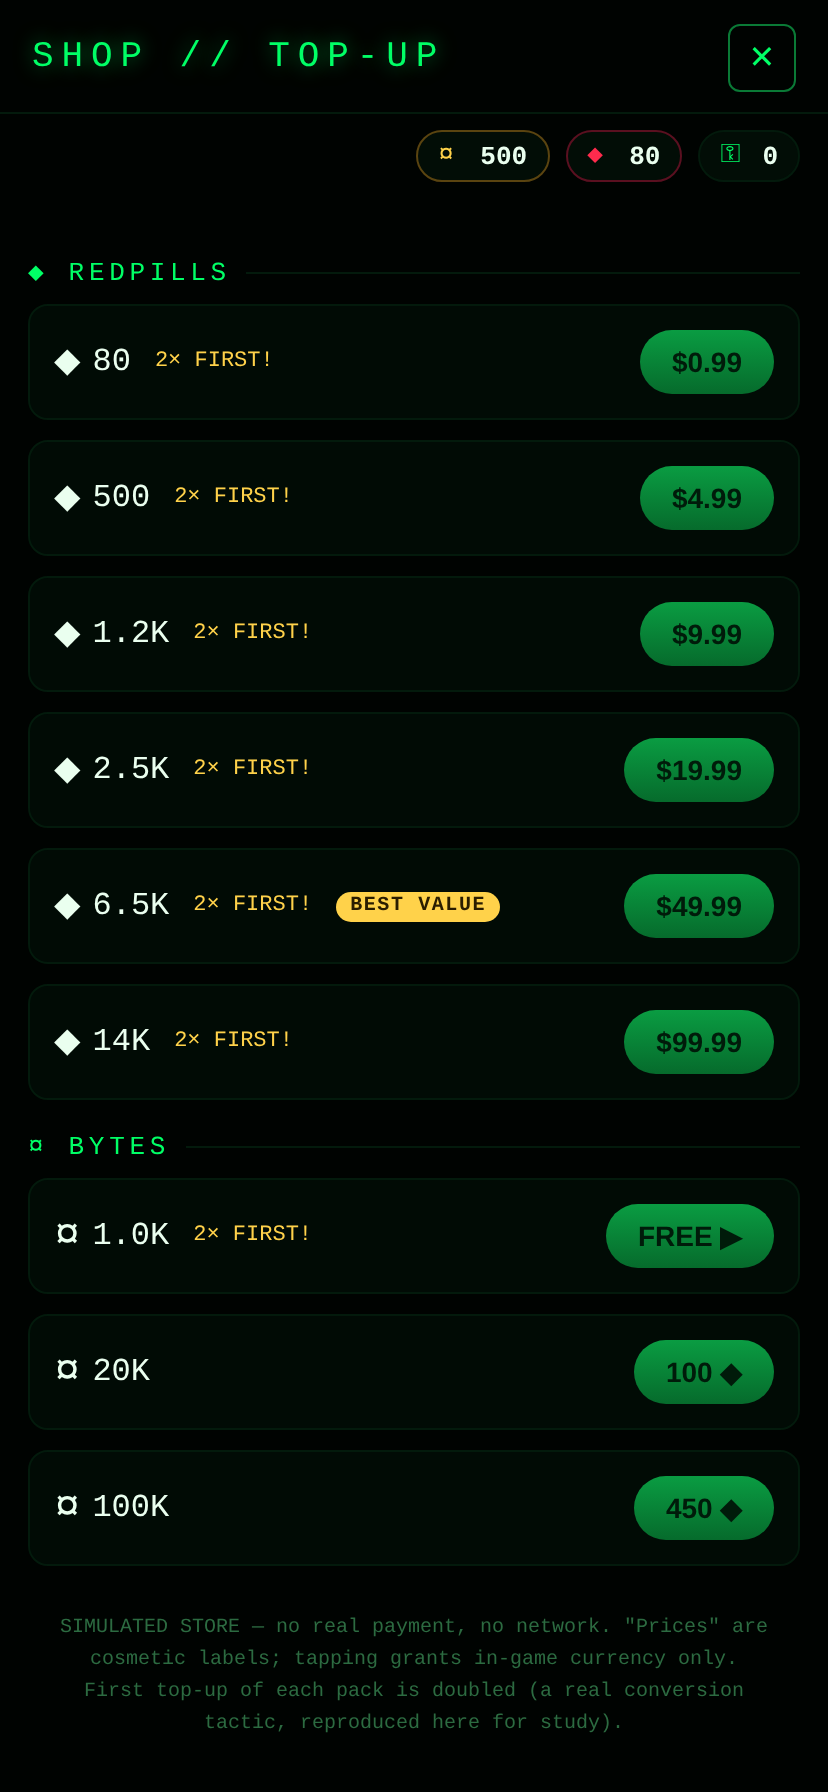
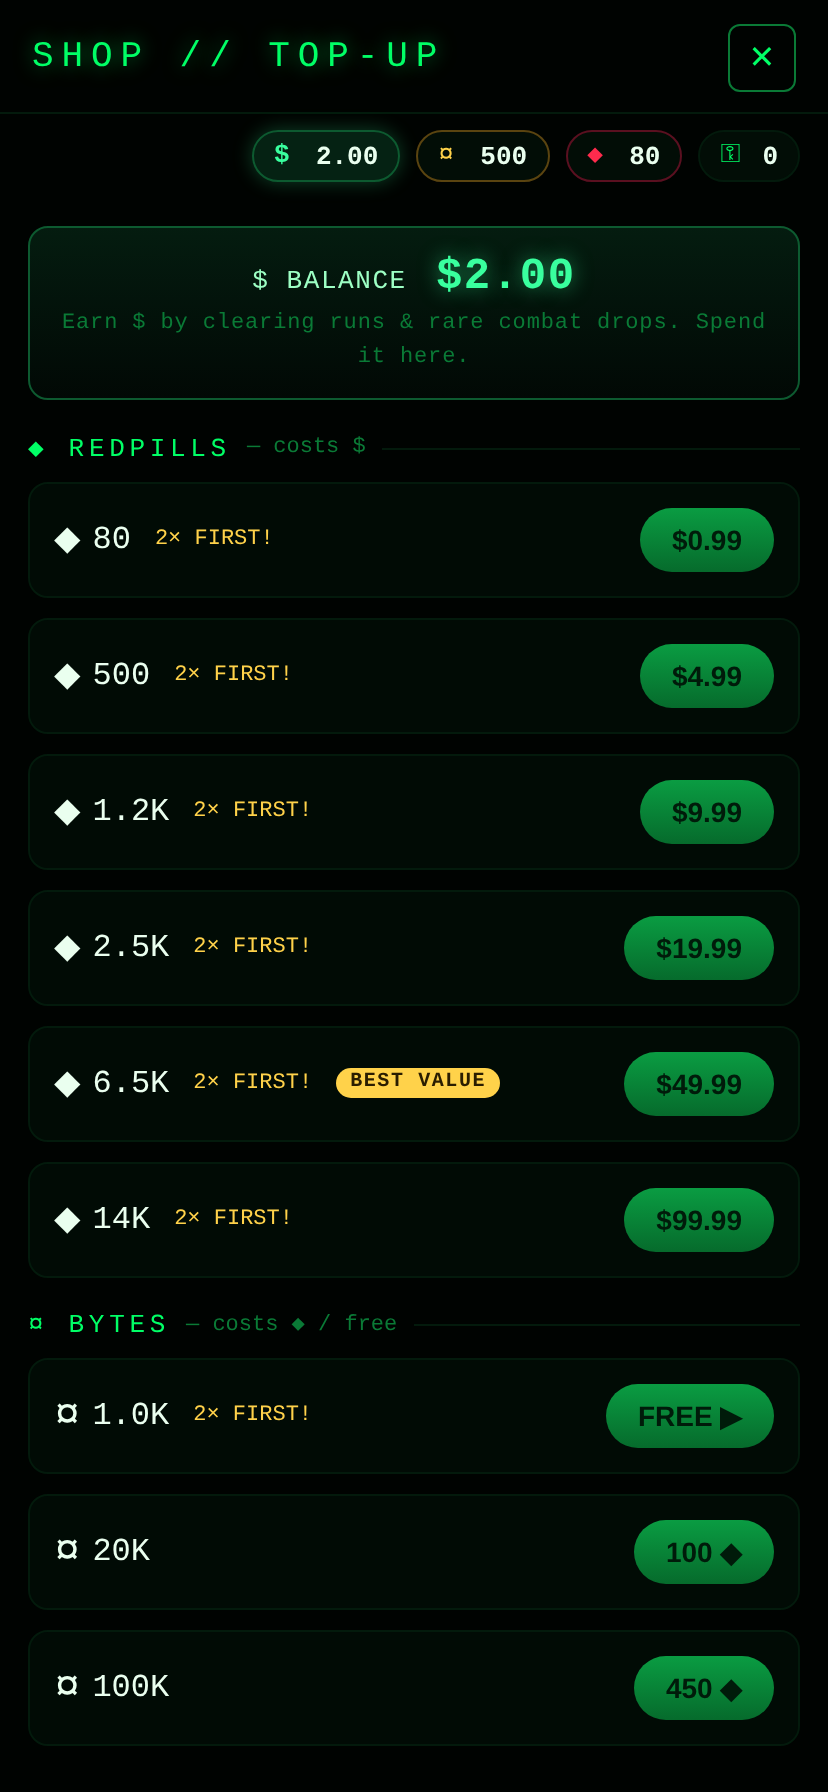
Add spendable $ credits: start $2, earn from runs & combat, spend in shop
- New 'dollars' currency: every profile starts with $2 (also back-filled for
  existing saves via default merge). Tracked + lifetime 'dollarsEarned'.
- Earn $: run completion bonus in awardRun (base + time + boss), and a rare
  glowing $ bill pickup that drops mid-fight (bosses always drop one); pickups
  credit the balance immediately and persist.
- Spend $: shop Redpill packs now deduct the real $ balance (parsePrice), still
  apply first-buy x2, and actually grant the Redpills/Bytes on success; clear
  "need $X more" feedback when short. Bytes packs keep Redpill/ad pricing.
- UI: $ chip in the currency bar, live $ balance banner in the shop, $ shown in
  end-of-run rewards.
- Offline: all of it is the existing localStorage profile; verified a buy +
  full page reload keeps the deducted balance and granted goods.

Tests: logic 45/45 (incl. $ earn/spend/insufficient + persistence-across-reload),
smoke 20/20, browser e2e confirms $2 -> buy $0.99 -> $1.01 & +160 redpills,
survives reload. 0 runtime errors.

Claude-Session: https://claude.ai/code/session_017cpWMkzYq2x9bHhLVMrpjT

diff --git a/js/monetization.js b/js/monetization.js
@@ -206,20 +206,46 @@
     return out;
   }
 
-  /* ---------------- currency bundles (simulated buy) ---------------- */
+  /* ---------------- dollar credits ($, spendable, local) ---------------- */
+  function parsePrice(p) {
+    if (typeof p === "number") return p;
+    if (typeof p === "string" && p[0] === "$") return parseFloat(p.slice(1)) || 0;
+    return null; // "FREE" or non-dollar price
+  }
+  function addDollars(amt) {
+    const s = S();
+    s.dollars = +(((s.dollars || 0) + amt).toFixed(2));
+    s.dollarsEarned = +(((s.dollarsEarned || 0) + amt).toFixed(2));
+    M.save.save();
+    return s.dollars;
+  }
+
+  /* ---------------- currency bundles (spend $ credits) ---------------- */
   function buyBundle(type, id) {
     const b = data.BUNDLES[type].find((x) => x.id === id);
     if (!b) return { error: "no" };
-    if (b.cur) { // paid with another currency
-      if (!M.save.spend(b.cur, b.price)) return { error: "poor" };
-    }
-    let amt = b.amt;
-    // first-purchase doubling (foot-in-the-door)
     const s = S();
-    if (!b.cur && !s.firstTopup[id]) { amt *= 2; s.firstTopup[id] = true; }
-    M.save.add(type, amt);
+    let amt = b.amt, spent = 0;
+    if (b.cur) {
+      // paid with another in-game currency (e.g. Bytes bought with Redpills)
+      if (!M.save.spend(b.cur, b.price)) return { error: "poor" };
+    } else if (b.ad) {
+      // "watch ad" freebie — no cost
+    } else {
+      // dollar-priced pack: deduct the player's $ balance
+      const price = parsePrice(b.price);
+      if (price != null && price > 0) {
+        if ((s.dollars || 0) + 1e-9 < price)
+          return { error: "dollars", need: +(price - (s.dollars || 0)).toFixed(2), price };
+        s.dollars = +((s.dollars - price).toFixed(2));
+        spent = price;
+      }
+      // first-purchase doubling (foot-in-the-door)
+      if (!s.firstTopup[id]) { amt *= 2; s.firstTopup[id] = true; }
+    }
+    M.save.add(type, amt); // grants the goods + persists
     M.save.save();
-    return { ok: true, amt };
+    return { ok: true, amt, spent };
   }
 
   /* ---------------- end-of-run rewards ---------------- */
@@ -228,14 +254,17 @@
     const bonus = metaBonus();
     const bytes = Math.floor((40 + stats.kills * 1.4 + stats.time * 3 + stats.level * 25) * bonus.greed);
     const rp = Math.floor(stats.time / 60) * 5 + (stats.boss ? 30 : 0);
+    // $ credits for completing the run: base + time + boss bonus
+    const dollars = +((0.25 + Math.floor(stats.time / 60) * 0.15 + (stats.boss ? 0.75 : 0)).toFixed(2));
     M.save.add("bytes", bytes);
     if (rp > 0) M.save.add("redpills", rp);
+    if (dollars > 0) addDollars(dollars);
     s.totalKills += stats.kills;
     s.runs += 1;
     if (stats.time > s.bestTime) s.bestTime = stats.time;
     addBpXp(Math.floor(stats.time / 6) + stats.level * 4 + (stats.boss ? 40 : 0));
     M.save.save();
-    return { bytes, rp };
+    return { bytes, rp, dollars };
   }
 
   function badgeCount() {
@@ -255,6 +284,6 @@
     offerState, buyOffer,
     bpTier, bpProgress, addBpXp, bpClaim, bpBuyPremium,
     metaLevel, metaBuy, metaBonus,
-    buyBundle, awardRun, grant, badgeCount,
+    buyBundle, parsePrice, addDollars, awardRun, grant, badgeCount,
   };
 })();

diff --git a/tests/logic.test.js b/tests/logic.test.js
@@ -144,12 +144,41 @@ ok("run awards bytes", rw.bytes > 0);
 ok("boss run awards redpills", rw.rp > 0);
 ok("stats recorded", M.save.data.runs === 1 && M.save.data.bestTime === 600);
 
-console.log("\n== BUNDLES (first-buy 2x) ==");
+console.log("\n== DOLLARS + SHOP ==");
 M.save.reset();
-const b1 = M.mon.buyBundle("redpills", "rp1");
+ok("user starts with $2", M.save.data.dollars === 2);
+const rpBefore = M.save.data.redpills;
+const b1 = M.mon.buyBundle("redpills", "rp1"); // $0.99 -> 80 (x2 first)
+ok("buy deducts $ + delivers goods", b1.ok && M.save.data.dollars === +(2 - 0.99).toFixed(2) && M.save.data.redpills === rpBefore + D.BUNDLES.redpills[0].amt * 2, JSON.stringify(b1) + " $" + M.save.data.dollars);
 ok("first buy doubled", b1.amt === D.BUNDLES.redpills[0].amt * 2);
 const b2 = M.mon.buyBundle("redpills", "rp1");
 ok("second buy not doubled", b2.amt === D.BUNDLES.redpills[0].amt);
+const b3 = M.mon.buyBundle("redpills", "rp1");
+ok("blocked when $ insufficient", b3.error === "dollars", JSON.stringify(b3));
+M.save.reset();
+const adb = M.mon.buyBundle("bytes", "by0"); // FREE ad pack
+ok("ad pack free, grants bytes, no $ spent", adb.ok && M.save.data.dollars === 2);
+M.save.reset(); M.save.add("redpills", 1000);
+const byb = M.mon.buyBundle("bytes", "by1"); // costs redpills
+ok("bytes pack spends redpills", byb.ok && M.save.data.redpills === 80 + 1000 - 100);
+
+console.log("\n== EARNING $ ==");
+M.save.reset();
+const d0 = M.save.data.dollars;
+const drw = M.mon.awardRun({ kills: 100, time: 180, level: 10, boss: true });
+ok("run completion awards $", drw.dollars > 0 && M.save.data.dollars > d0, "rw=" + JSON.stringify(drw));
+M.save.reset();
+M.mon.addDollars(0.5);
+ok("combat $ drop adds + tracks lifetime", M.save.data.dollars === 2.5 && M.save.data.dollarsEarned === 0.5);
+
+console.log("\n== OFFLINE PERSISTENCE ==");
+M.save.reset();
+M.mon.addDollars(3.25);
+M.save.data.bytes = 12345; M.mon.unlockChar("trace_ivory"); M.save.save();
+M.save.load(); // simulate closing & reopening the browser
+ok("$ persisted across reload", M.save.data.dollars === 5.25, "$" + M.save.data.dollars);
+ok("bytes persisted across reload", M.save.data.bytes === 12345);
+ok("roster persisted across reload", M.save.data.rosterOwned.trace_ivory === true);
 
 console.log(`\n========================================`);
 console.log(`  RESULT: ${pass} passed, ${fail} failed`);

diff --git a/js/ui.js b/js/ui.js
@@ -20,9 +20,11 @@
   function curIco(kind) {
     return { bytes: "¤", redpills: "◆", keys: "⚿" }[kind] || "•";
   }
+  function fmtUsd(n) { return "$" + (n || 0).toFixed(2); }
   function curBar() {
     const d = S.data;
     return `<div class="curbar">
+      <div class="cur cash"><span class="ico">$</span><b>${(d.dollars || 0).toFixed(2)}</b></div>
       <div class="cur gold"><span class="ico">¤</span><b>${U.fmtNum(d.bytes)}</b></div>
       <div class="cur red"><span class="ico">◆</span><b>${U.fmtNum(d.redpills)}</b></div>
       <div class="cur"><span class="ico">⚿</span><b>${d.keys}</b></div>
@@ -31,9 +33,13 @@
   function refreshCur(root) {
     const d = S.data;
     const c = (root || document).querySelectorAll(".curbar .cur b");
-    if (c[0]) c[0].textContent = U.fmtNum(d.bytes);
-    if (c[1]) c[1].textContent = U.fmtNum(d.redpills);
-    if (c[2]) c[2].textContent = d.keys;
+    if (c[0]) c[0].textContent = (d.dollars || 0).toFixed(2);
+    if (c[1]) c[1].textContent = U.fmtNum(d.bytes);
+    if (c[2]) c[2].textContent = U.fmtNum(d.redpills);
+    if (c[3]) c[3].textContent = d.keys;
+    // also refresh any open shop balance line
+    const bal = (root || document).querySelector("#dollarBal");
+    if (bal) bal.textContent = fmtUsd(d.dollars);
   }
 
   /* ---------------- screen scaffold ---------------- */
@@ -306,14 +312,22 @@
     const rp = D.BUNDLES.redpills.map((b) => bundleRow("redpills", b)).join("");
     const by = D.BUNDLES.bytes.map((b) => bundleRow("bytes", b)).join("");
     const scr = openScreen("shop", "SHOP // TOP-UP", `
-      <div class="section-h">◆ REDPILLS</div>${rp}
-      <div class="section-h">¤ BYTES</div>${by}
-      <p class="disclaimer">SIMULATED STORE — no real payment, no network. "Prices" are cosmetic labels; tapping grants in-game currency only. First top-up of each pack is doubled (a real conversion tactic, reproduced here for study).</p>`);
+      <div class="dollar-bal">$ BALANCE <b id="dollarBal">${fmtUsd(S.data.dollars)}</b>
+        <div class="muted" style="margin-top:3px">Earn $ by clearing runs &amp; rare combat drops. Spend it here.</div></div>
+      <div class="section-h">◆ REDPILLS <span class="muted" style="letter-spacing:0">— costs $</span></div>${rp}
+      <div class="section-h">¤ BYTES <span class="muted" style="letter-spacing:0">— costs ◆ / free</span></div>${by}
+      <p class="disclaimer">SIMULATED STORE — the "$" is an in-game balance stored only in your browser; there is no real payment or network. First top-up of each pack is doubled (a real conversion tactic, reproduced here for study).</p>`);
     U.$$("[data-bundle]", scr).forEach((b) => b.onclick = () => {
       const [type, id] = b.dataset.bundle.split(":");
       const r = mon.buyBundle(type, id);
-      if (r.ok) { M.audio.sfx.coin(); confettiFlash(); toast("+" + U.fmtNum(r.amt) + " " + type); refreshCur(scr);
-        b.closest(".bundle").querySelector(".firstx") && (b.closest(".bundle").querySelector(".firstx").style.display = "none"); }
+      if (r.ok) {
+        M.audio.sfx.coin(); confettiFlash();
+        const spentTxt = r.spent ? "  (−" + fmtUsd(r.spent) + ")" : "";
+        toast("+ " + U.fmtNum(r.amt) + " " + (type === "redpills" ? "◆" : "¤") + spentTxt);
+        refreshCur(scr);
+        const row = b.closest(".bundle"); const fx = row && row.querySelector(".firstx"); if (fx) fx.style.display = "none";
+      }
+      else if (r.error === "dollars") { toast("NEED " + fmtUsd(r.need) + " MORE $"); shake(scr); }
       else if (r.error === "poor") toast("NOT ENOUGH ◆");
     });
   }
@@ -597,7 +611,7 @@
         <div class="go-stat"><b>${stats.kills}</b><span>PURGED</span></div>
         <div class="go-stat"><b>${stats.level}</b><span>LEVEL</span></div>
       </div>
-      <div class="go-reward">EXTRACTED &nbsp; ¤ ${U.fmtNum(reward.bytes)} ${reward.rp ? "· ◆ " + reward.rp : ""}</div>
+      <div class="go-reward">EXTRACTED &nbsp; ¤ ${U.fmtNum(reward.bytes)} ${reward.rp ? "· ◆ " + reward.rp : ""} ${reward.dollars ? '· <span style="color:#39ff9e">+ ' + fmtUsd(reward.dollars) + "</span>" : ""}</div>
       <div style="display:flex;gap:12px">
         <button class="btn" id="goHome">HUB</button>
         <button class="btn primary" id="goAgain">RE-ENTER</button>

diff --git a/tests/shot4.js b/tests/shot4.js
@@ -1,0 +1,31 @@
+const puppeteer = require("puppeteer");
+const path = require("path");
+(async () => {
+  const browser = await puppeteer.launch({ headless: "new", args: ["--no-sandbox", "--use-gl=swiftshader"] });
+  const page = await browser.newPage();
+  await page.setViewport({ width: 414, height: 896, deviceScaleFactor: 2 });
+  const errs = []; page.on("pageerror", (e) => errs.push(e.message));
+  await page.goto("http://127.0.0.1:8099/index.html", { waitUntil: "networkidle0" });
+  const out = path.join(__dirname, "..", "assets");
+  await page.click("#bootBtn");
+  await new Promise((r) => setTimeout(r, 800));
+  await page.evaluate(() => { window.M.save.reset(); window.M.ui.closeAll(); window.M.ui.showShop(); });
+  await new Promise((r) => setTimeout(r, 700));
+  await page.screenshot({ path: out + "/shot_shop.png" });
+
+  // perform a real purchase via the actual DOM button and check state
+  const before = await page.evaluate(() => ({ d: window.M.save.data.dollars, rp: window.M.save.data.redpills }));
+  await page.evaluate(() => { const b = document.querySelector('[data-bundle="redpills:rp1"]'); if (b) b.click(); });
+  await new Promise((r) => setTimeout(r, 500));
+  const after = await page.evaluate(() => ({ d: window.M.save.data.dollars, rp: window.M.save.data.redpills }));
+
+  // verify offline persistence: reload the page, read localStorage-backed save
+  await page.reload({ waitUntil: "networkidle0" });
+  const persisted = await page.evaluate(() => { window.M.save.load(); return { d: window.M.save.data.dollars, rp: window.M.save.data.redpills }; });
+
+  console.log("BEFORE :", JSON.stringify(before));
+  console.log("AFTER  :", JSON.stringify(after), "(expect $-0.99, +160 redpills)");
+  console.log("RELOAD :", JSON.stringify(persisted), "(should equal AFTER -> offline save works)");
+  console.log("ERRORS :", errs.length ? errs.slice(0, 4).join(" | ") : "none");
+  await browser.close();
+})();

diff --git a/js/entities.js b/js/entities.js
@@ -239,6 +239,16 @@
         S.glow(ctx, this.x, this.y, 16, "#ffb300", 0.7);
         ctx.fillStyle = "#ffb300"; ctx.font = "18px monospace"; ctx.textAlign = "center";
         ctx.fillText("✸", this.x, this.y + 6); ctx.textAlign = "left";
+      } else if (this.kind === "cash") {
+        const p = 0.7 + 0.3 * Math.sin(t * 6 + this.x);
+        S.glow(ctx, this.x, this.y, 18, "#39ff9e", 0.7 * p);
+        ctx.save(); ctx.translate(this.x, this.y); ctx.rotate(Math.sin(t * 2 + this.seed) * 0.25);
+        // little green bill
+        ctx.fillStyle = "#0c3a22"; S.rrect(ctx, -10, -6, 20, 12, 2); ctx.fill();
+        ctx.strokeStyle = "#39ff9e"; ctx.lineWidth = 1; ctx.stroke();
+        ctx.fillStyle = "#bfffd8"; ctx.font = "bold 12px monospace"; ctx.textAlign = "center"; ctx.textBaseline = "middle";
+        ctx.fillText("$", 0, 1); ctx.textAlign = "left"; ctx.textBaseline = "alphabetic";
+        ctx.restore();
       }
     }
   }

diff --git a/css/style.css b/css/style.css
@@ -57,7 +57,12 @@ canvas#game{position:absolute;inset:0;width:100%;height:100%;display:block;backg
 .cur .ico{width:16px;height:16px;display:inline-block;}
 .cur.red{color:var(--red);border-color:#5a1020;}
 .cur.gold{color:var(--gold);border-color:#5a4410;}
+.cur.cash{color:#39ff9e;border-color:#0d5a30;background:rgba(6,40,22,.85);box-shadow:0 0 10px rgba(57,255,158,.25);}
+.cur.cash .ico{font-weight:bold;}
 .cur b{color:#eaffef;font-weight:600;}
+
+.dollar-bal{border:1px solid #0d5a30;background:linear-gradient(180deg,rgba(6,40,22,.7),rgba(2,12,7,.7));border-radius:10px;padding:12px 14px;margin-bottom:10px;color:#9dffc4;font-size:13px;letter-spacing:.06em;text-align:center;}
+.dollar-bal b{color:#39ff9e;font-size:22px;text-shadow:0 0 10px rgba(57,255,158,.5);margin-left:6px;}
 
 /* generic buttons */
 .btn{display:inline-flex;align-items:center;justify-content:center;gap:8px;border:1px solid var(--green);color:var(--green);background:linear-gradient(180deg,rgba(0,255,102,.08),rgba(0,255,102,.02));padding:14px 22px;border-radius:6px;font-family:var(--mono);font-size:16px;letter-spacing:.1em;cursor:pointer;transition:.12s;text-shadow:0 0 6px rgba(0,255,102,.4);}

diff --git a/js/game.js b/js/game.js
@@ -308,6 +308,9 @@
       if (U.chance(0.35)) this.pickups.push(this.pickupPool.get().spawn("byte", e.x, e.y, e.t.byte));
       if (U.chance(e.t.boss ? 1 : 0.012)) this.pickups.push(this.pickupPool.get().spawn("heart", e.x, e.y, 20));
       if (U.chance(0.01)) this.pickups.push(this.pickupPool.get().spawn("magnet", e.x, e.y, 0));
+      // rare $ drop during fights (bosses always drop one)
+      if (U.chance(e.t.boss ? 1 : 0.004))
+        this.pickups.push(this.pickupPool.get().spawn("cash", e.x, e.y, e.t.boss ? 1.0 : +(0.1 + Math.random() * 0.4).toFixed(2)));
       if (e.t.boss) { this.pickups.push(this.pickupPool.get().spawn("bomb", e.x, e.y, 0)); this.bossKilled = true; }
       this.enemyPool.put(e);
     }
@@ -317,6 +320,7 @@
       else if (p.kind === "heart") { this.player.hp = Math.min(this.player.maxhp, this.player.hp + p.val); this.toast("+" + p.val + " HP"); }
       else if (p.kind === "magnet") { this.magnetAll(); }
       else if (p.kind === "bomb") { this.bigBomb(); }
+      else if (p.kind === "cash") { const amt = +(p.val || 0.1).toFixed(2); M.mon.addDollars(amt); this.runDollars = +(((this.runDollars || 0) + amt).toFixed(2)); M.audio.sfx.coin(); this.toast("+ $" + amt.toFixed(2)); }
       this.pickupPool.put(p);
     }
     magnetAll() { for (const p of this.pickups) p.pull = true; this.toast("◈ DATA SWEEP"); }

diff --git a/js/save.js b/js/save.js
@@ -9,10 +9,12 @@
     lastSeen: 0,
     loginDay: 0, // how many daily rewards claimed (streak index)
     loginClaimedToday: false,
-    // currencies (all fake)
+    // currencies (all simulated / local — no real payment)
     bytes: 500, // soft currency (gold-equivalent)
     redpills: 80, // premium currency (diamond-equivalent)
     keys: 0, // gacha tokens
+    dollars: 2, // spendable $ credits — start the user with $2
+    dollarsEarned: 0, // lifetime $ earned (stats)
     // gacha
     pity: 0, // pulls since last SSR
     rosterOwned: { neo_echo: true }, // starter